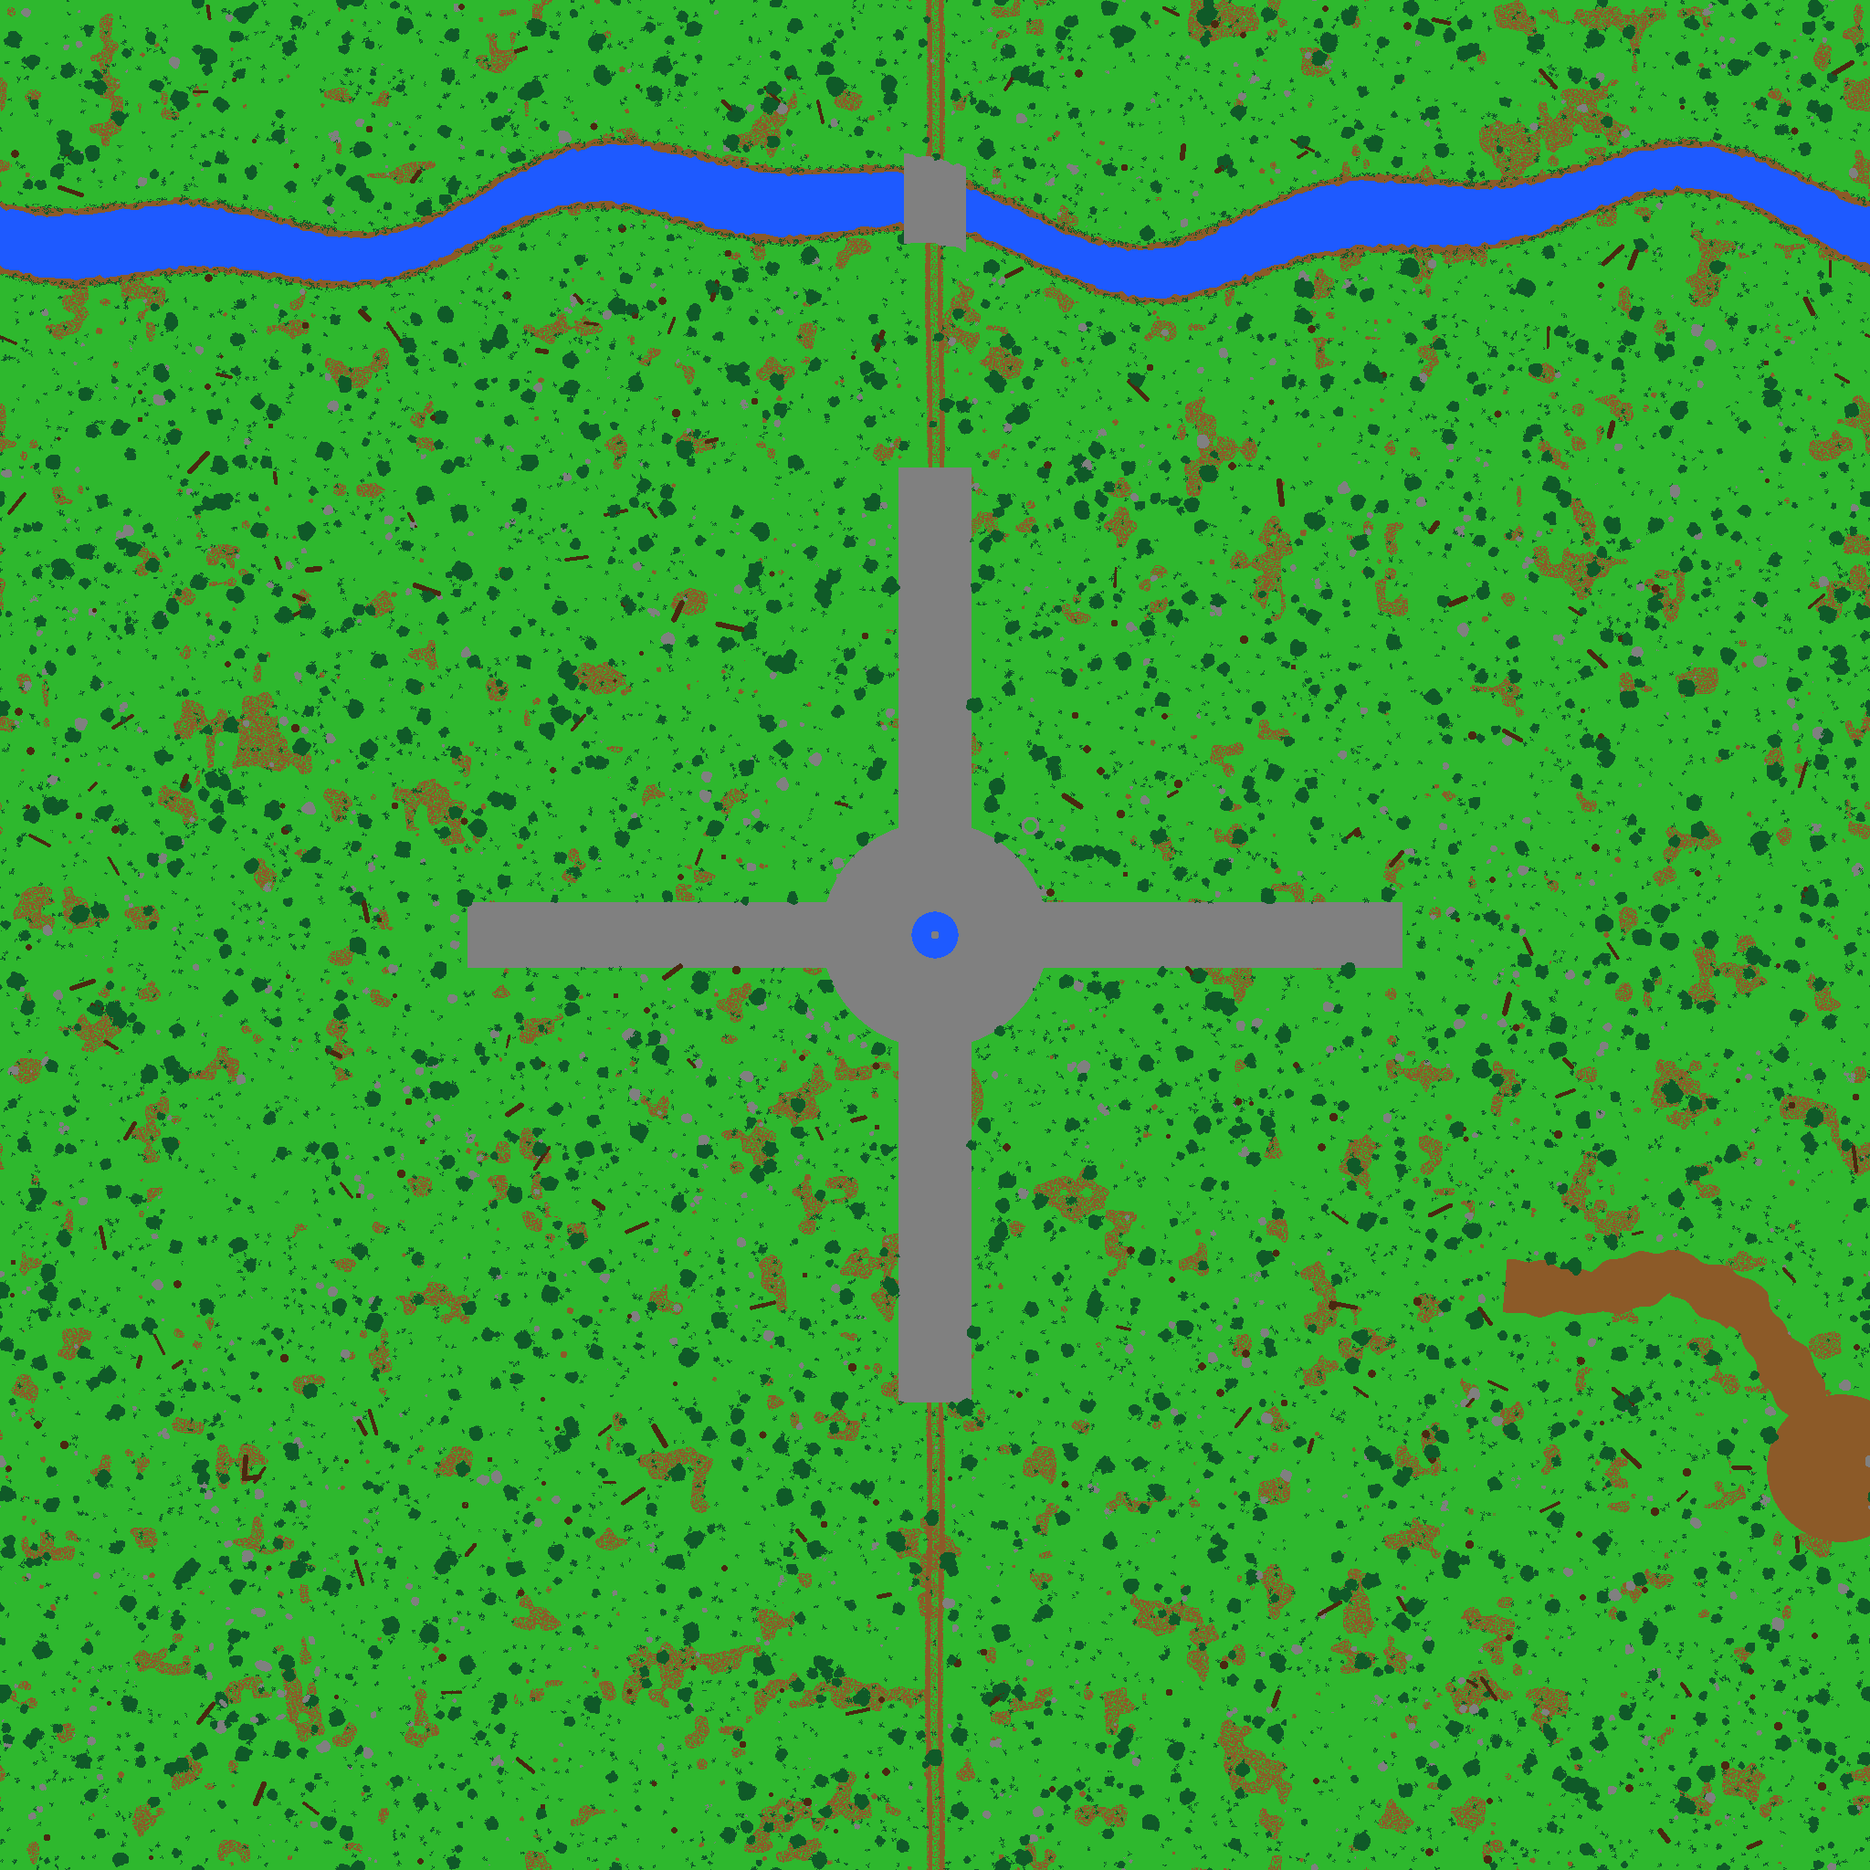
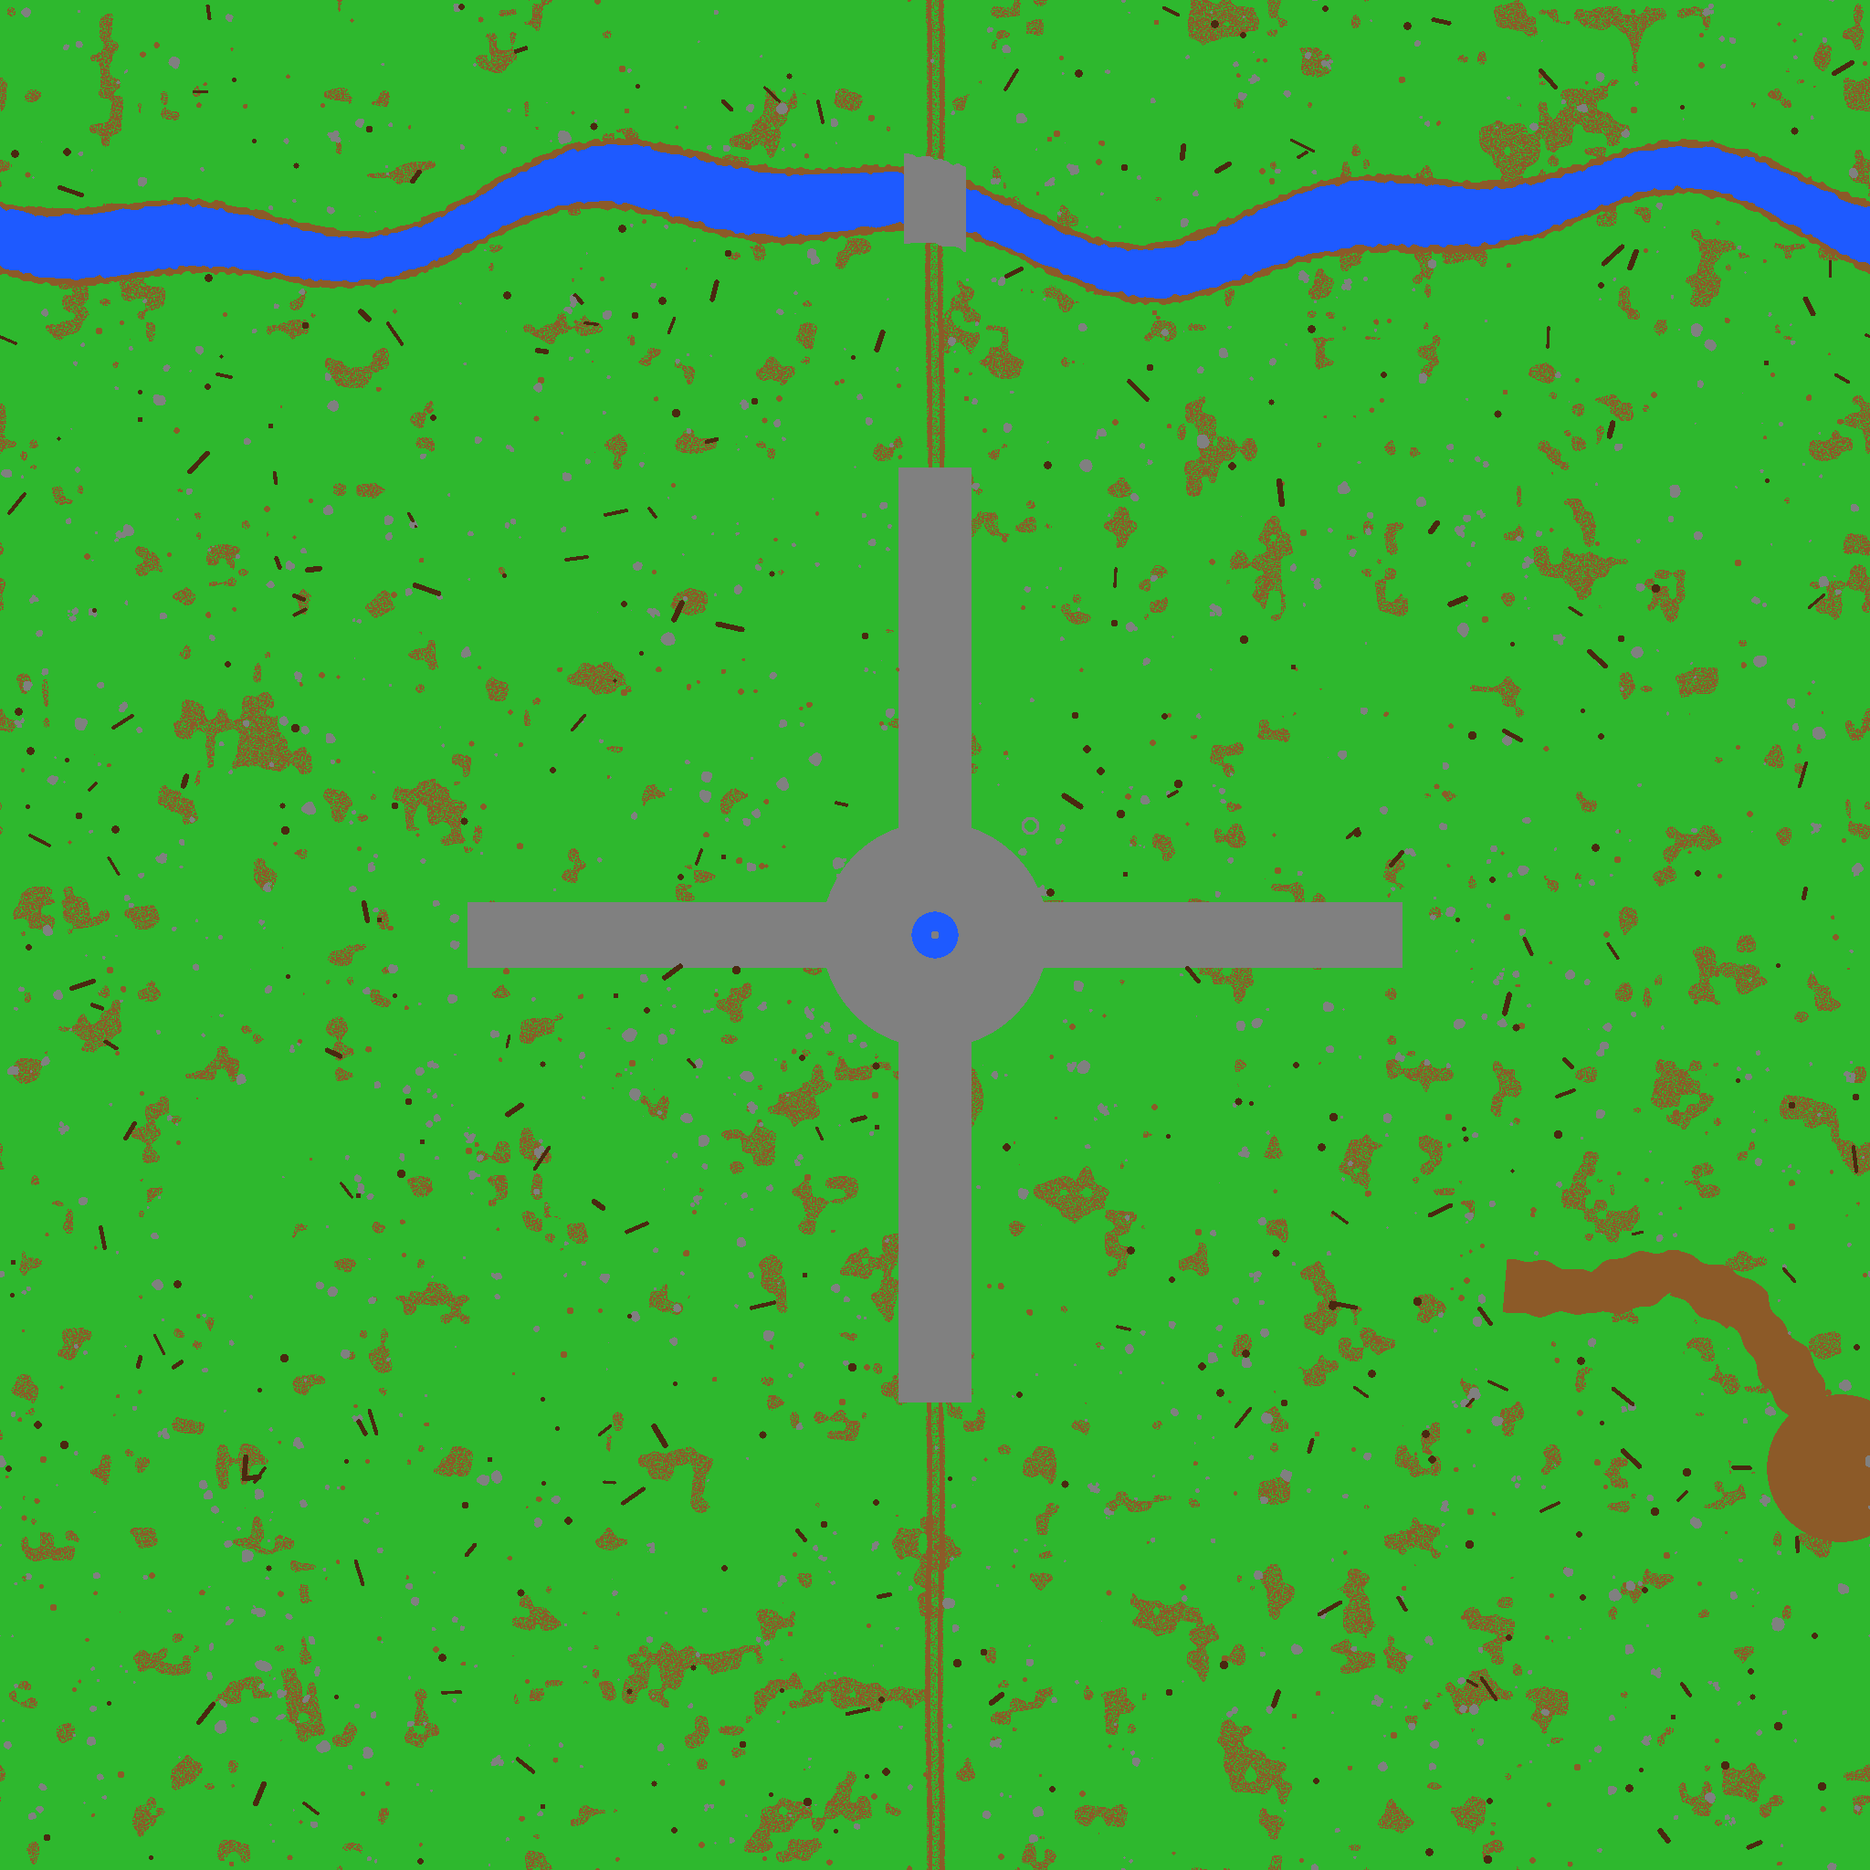
PS1 resolution, per-pixel texture height, no painted flora
- Render 240 lines (PS1 resolution), width follows the screen so it fills it
- Grass and cobblestone height maps traced per pixel in the terrain march (cobbles bulge
  out of the mortar), with finer steps near the camera
- Map no longer paints or raises small flora (flowers, shrubs, grass clumps, reeds, mushroom
  rings, ferns) or road paving joints; rocks, logs, curbs and walls stay. Random draws are
  kept in step so rocks and logs don't move. Terrain mask regenerated (no plant patches).
- PC: ERYNDOR_TURN test option

Claude-Session: https://claude.ai/code/session_012tW2o5ivFoZcMGPGUBwr9d

diff --git a/app/src/main/java/com/harlequinxd/eryndor/WorldTextures.java b/app/src/main/java/com/harlequinxd/eryndor/WorldTextures.java
@@ -72,6 +72,12 @@ final class WorldTextures {
         return fernCache;
     }
     private static float[] DH;                       // detail heights while painting
+    /**
+     * Small flora painted and raised on the map (tall grass clumps, shrubs, reeds, mushroom rings,
+     * ferns). Off: the ground's look comes from texture sets instead. Placement still draws the same
+     * random numbers either way, so rocks, logs and trees stay exactly where they were.
+     */
+    static final boolean FLORA = false;
 
     /** Raise the detail height at a texel (keeps the highest). */
     private static void raise(int i, float v) {
@@ -489,7 +495,7 @@ final class WorldTextures {
                 // detail height (m): grass is a fine fuzz of blades
                 // lumpy meadow: gentle hummocks plus a dense fuzz of grass blades
                 float hummock = smooth(0.35f, 0.9f, m2.at(u + 0.21f, v + 0.67f)) * 0.22f + (f1.at(u + 0.3f, v) - 0.5f) * 0.06f;
-                float dh = 0.03f + hummock + 0.11f * h * h + 0.05f * bl0(blade, u, v);
+                float dh = 0.03f + hummock + (FLORA ? 0.11f * h * h + 0.05f * bl0(blade, u, v) : 0f);
 
                 // ---- meadow: lush to sun-dried grass, strong per-texel blade variation
                 float t = smooth(0.30f, 0.75f, big);
@@ -505,7 +511,7 @@ final class WorldTextures {
                 if (clover > 0) {
                     float cl = 0.85f + 0.3f * fine;
                     r = lerp(r, 0.25f * cl, clover); g = lerp(g, 0.40f * cl, clover); b = lerp(b, 0.16f * cl, clover);
-                    if (h2 > 0.993f && clover > 0.3f) { r = 0.88f; g = 0.88f; b = 0.84f; }
+                    if (FLORA && h2 > 0.993f && clover > 0.3f) { r = 0.88f; g = 0.88f; b = 0.84f; }
                 }
                 // bare earth patches
                 float bare = smooth(0.70f, 0.78f, m1.at(u + 0.13f, v + 0.51f) * 0.7f + m2.at(u, v) * 0.3f);
@@ -519,7 +525,7 @@ final class WorldTextures {
                 }
                 // wildflowers in drifts
                 float fl = smooth(0.55f, 0.85f, m2.at(u + 0.7f, v + 0.3f)) * (1f - bare);
-                if (h2 < 0.028f * fl) {
+                if (FLORA && h2 < 0.028f * fl) {
                     float k = hash(x * 3, y * 5);
                     if (k < 0.35f) { r = 0.95f; g = 0.93f; b = 0.86f; }       // daisies
                     else if (k < 0.65f) { r = 0.95f; g = 0.80f; b = 0.20f; }  // buttercups
@@ -546,7 +552,8 @@ final class WorldTextures {
                 if (onN || onE || onP) {
                     float wear = smooth(0.6f, 0.0f, Math.min(Math.abs(sd - 1.6f), Math.abs(sd + 0f - 1.6f))) * (onN ? 1f : 0f);
                     float[] c = cobble(wx, wz, 0.36f, fine, h, wear * 0.6f);
-                    dh = vEdge < 0.36f * 0.13f ? 0.0f : 0.02f + 0.035f * smooth(0f, 0.12f, vEdge);
+                    // the stones' own relief comes from the cobblestone texture's height map
+                    dh = 0.02f;
                     boolean curb = (onN && !onP && !(sdz < halfE + 0.35f) && sd > halfN)
                             || (onE && !onP && !(sd < halfN + 0.35f) && sdz > halfE)
                             || (onP && plaza > 15.0f && !(sd < halfN + 0.35f) && !(sdz < halfE + 0.35f));
@@ -593,7 +600,7 @@ final class WorldTextures {
                     float bl2 = 0.74f + 0.22f * hash(fx * 31 + fz, 7) + 0.06f * (h - 0.5f) + 0.08f * (fine - 0.5f);
                     r = 0.58f * bl2; g = 0.55f * bl2; b = 0.50f * bl2;
                     if (fu < 0.10f || fv < 0.12f) { r *= 0.55f; g *= 0.55f; b *= 0.55f; }
-                    dh = (fu < 0.10f || fv < 0.12f) ? 0.0f : 0.025f;
+                    dh = 0.02f;                                            // relief from the cobblestone texture
                     if (sd > 3.5f) {                                       // parapet walls
                         dh = 0.95f + 0.05f * hash(fz, 3);
                         float pl = 0.95f - 0.35f * (dx > 0 ? 1f : 0f) * smooth(3.5f, 4.2f, sd) + 0.1f * (h - 0.5f);
@@ -612,7 +619,7 @@ final class WorldTextures {
                     dh = lerp(dh, hash(x >> 1, y >> 1) < 0.12f ? 0.05f : 0.01f, bank);
                     if (bank > 0.5f) mat = M_EARTH;
                     // reeds along the outer bank
-                    if (rd > rhw + 0.3f && rd < rhw + 1.3f && m2.at(u * 4f, v * 4f) > 0.55f && h > 0.45f) {
+                    if (FLORA && rd > rhw + 0.3f && rd < rhw + 1.3f && m2.at(u * 4f, v * 4f) > 0.55f && h > 0.45f) {
                         float rl = 0.7f + 0.5f * h2;
                         r = 0.30f * rl; g = 0.40f * rl; b = 0.18f * rl;
                         dh = 0.35f + 0.45f * h2;
@@ -683,12 +690,13 @@ final class WorldTextures {
         }
 
         // ---- scatter
-        Loading.set("Growing grass and shrubs", 0.62f);
+        Loading.set("Shaping the meadows", 0.62f);
         curMat = M_PLANT;
         for (int k = 0; k < 9000; k++) {                         // tall grass clumps
             int cx = rnd.nextInt(S), cy = rnd.nextInt(S);
             if (busy[cy * S + cx] != 0) continue;
-            tuft(R, G, B, cx, cy, rnd);
+            if (FLORA) tuft(R, G, B, cx, cy, rnd);
+            else skipTuft(rnd);
         }
         Loading.set("Scattering boulders", 0.66f);
         curMat = M_STONE;
@@ -697,12 +705,14 @@ final class WorldTextures {
             if (busy[cy * S + cx] != 0) continue;
             rock(R, G, B, cx, cy, 1.3f + rnd.nextFloat() * rnd.nextFloat() * 7f, rnd, f1);
         }
-        Loading.set("Growing grass and shrubs", 0.69f);
+        Loading.set("Shaping the meadows", 0.69f);
         curMat = M_PLANT;
         for (int k = 0; k < 2100; k++) {                         // shrubs, gorse and bramble
             int cx = rnd.nextInt(S), cy = rnd.nextInt(S);
             if (busy[cy * S + cx] != 0) continue;
-            bush(R, G, B, cx, cy, 3.5f + rnd.nextFloat() * 7f, rnd.nextFloat(), rnd.nextInt(1 << 20), f2);
+            float rad = 3.5f + rnd.nextFloat() * 7f, kind = rnd.nextFloat();
+            int seed = rnd.nextInt(1 << 20);
+            if (FLORA) bush(R, G, B, cx, cy, rad, kind, seed, f2);
         }
         // standing stones on the rise west of the north road
         curMat = M_STONE;
@@ -736,9 +746,15 @@ final class WorldTextures {
             molehill(R, G, B, cx, cy, 2f + rnd.nextFloat() * 2f, rnd);
         }
         curMat = M_PLANT;
-        fairyRing(R, G, B, 196f, 70f, 2.4f, rnd);
-        fairyRing(R, G, B, 40f, 110f, 1.8f, rnd);
-        fairyRing(R, G, B, 210f, 222f, 2.9f, rnd);
+        if (FLORA) {
+            fairyRing(R, G, B, 196f, 70f, 2.4f, rnd);
+            fairyRing(R, G, B, 40f, 110f, 1.8f, rnd);
+            fairyRing(R, G, B, 210f, 222f, 2.9f, rnd);
+        } else {
+            skipFairyRing(2.4f, rnd);
+            skipFairyRing(1.8f, rnd);
+            skipFairyRing(2.9f, rnd);
+        }
         curMat = M_STONE;
         well(R, G, B, (int) (141 * PPM), (int) (113 * PPM), 1.25f * PPM, 0.80f * PPM, f1);
         Loading.set("Planting ferns", 0.79f);
@@ -755,7 +771,7 @@ final class WorldTextures {
                     for (int j = -6; j <= 6 && clear; j += 3)
                         if (busy[Math.floorMod(pz + k, S) * S + Math.floorMod(px + j, S)] != 0
                                 || DH[Math.floorMod(pz + k, S) * S + Math.floorMod(px + j, S)] > 0.5f) clear = false;
-                boolean present = clear && rnd.nextFloat() < 0.55f;
+                boolean present = clear && rnd.nextFloat() < 0.55f && FLORA;
                 int o = (cz * FERN_GRID + cx) * 4;
                 fernCache[o] = (byte) Math.round(ox * 255);
                 fernCache[o + 1] = (byte) Math.round(oz * 255);
@@ -834,6 +850,28 @@ final class WorldTextures {
         else if (Math.abs(across) < 0.5f) cov = h > 0.35f ? 0.15f : 0.8f;     // grass crown
         else cov = smooth(1.6f, 0.9f, Math.abs(across)) * (h > 0.3f ? 1f : 0.4f);
         return new float[]{r, g, b, cov, th};
+    }
+
+    /** Draw the same random numbers as tuft() without painting anything. */
+    private static void skipTuft(Random rnd) {
+        int blades = 5 + rnd.nextInt(8);
+        rnd.nextFloat();
+        for (int k = 0; k < blades; k++) {
+            rnd.nextDouble();
+            rnd.nextInt(3);
+            rnd.nextFloat();
+        }
+    }
+
+    /** Draw the same random numbers as fairyRing() without painting anything. */
+    private static void skipFairyRing(float radius, Random rnd) {
+        int n = (int) (radius * 14);
+        for (int k = 0; k < n; k++) {
+            rnd.nextFloat();
+            rnd.nextFloat();
+            rnd.nextFloat();
+            rnd.nextFloat();
+        }
     }
 
     private static void tuft(float[] R, float[] G, float[] B, int cx, int cy, Random rnd) {

diff --git a/desktop/src/main/java/com/harlequinxd/eryndor/DesktopMain.java b/desktop/src/main/java/com/harlequinxd/eryndor/DesktopMain.java
@@ -178,7 +178,16 @@ public final class DesktopMain {
             pollKeys();
 
             renderer.onDrawFrame(null);
-            if (sky.worldReady && readyAt == 0) readyAt = System.currentTimeMillis();
+            if (sky.worldReady && readyAt == 0) {
+                readyAt = System.currentTimeMillis();
+                // ERYNDOR_TURN=dx,dy turns the view once the world is ready (for testing), in degrees
+                String turn = System.getenv("ERYNDOR_TURN");
+                if (turn != null) {
+                    String[] p = turn.split(",");
+                    input.addLook((float) Math.toRadians(Float.parseFloat(p[0])) / LOOK_SENS,
+                            (float) Math.toRadians(Float.parseFloat(p[1])) / LOOK_SENS);
+                }
+            }
             overlay.draw(fbW, fbH, state());
             if (shotDir != null && System.currentTimeMillis() >= nextShot) {
                 screenshot(new File(shotDir, String.format("shot_%03d.png", shotIndex++)));

diff --git a/app/src/main/java/com/harlequinxd/eryndor/GameRenderer.java b/app/src/main/java/com/harlequinxd/eryndor/GameRenderer.java
@@ -26,14 +26,14 @@ import javax.microedition.khronos.opengles.GL10;
 final class GameRenderer implements GLSurfaceView.Renderer {
 
     /** GBA vertical resolution; width follows the screen's aspect so it fills the whole display. */
-    private static final int LOW_RES_LINES = 160;
+    private static final int LOW_RES_LINES = 240;           // PS1 resolution: 240 lines, width follows the screen
     private static final float FOV_Y = (float) Math.toRadians(68);
     private static final float EYE_HEIGHT = 1.68f;
     private static final float MAX_SLOPE = 1.1f;       // rise per metre the player can climb
     private static final float MIN_HEADROOM = 1.95f;
     private static final float WALK_SPEED = 4.2f;      // m/s at full stick
     private static final float LOOK_SENS = 0.0065f;    // radians per dp
-    private static final int GROUND_CACHE_VERSION = 11;
+    private static final int GROUND_CACHE_VERSION = 13;
 
     private final Input input;
     private final SkyState sky;

diff --git a/README.md b/README.md
@@ -56,7 +56,10 @@ Hollowspire.
   so stones don't ghost) and packs normal + height. Grass shows the photo's own colour, lit by its normal
   map, point sampled, with tree shadows on top; two placements, one turned and larger, are mixed
   per pixel by a dithered noise so the tile doesn't repeat visibly. Small detail comes only from
-  the textures (no grass bumps in the terrain).
+  the textures: each set's height map is traced per pixel (cobbles bulge 6 cm out of the mortar,
+  grass clumps 3.5 cm), and the map itself no longer paints or raises small flora (flowers,
+  shrubs, tall grass clumps, reeds, mushroom rings, ferns) or paving joints; rocks, logs,
+  stumps, cairns, curbs and walls remain (`WorldTextures.FLORA` turns the flora back on).
 - **Sword, per pixel**: a longsword in the right hand: a diamond-section steel blade with a
   fuller and honed edges that mirror the sky, a blackened-iron crossguard with brass bands, a
   spiral leather grip and a pommel. Each pixel traces its distance-field shapes. The right hand's
@@ -88,7 +91,7 @@ Hollowspire.
 - **Day/night**: full 24 h in 8 minutes (x20 with the Time button).
 - **Weather**: clear, cloudy, overcast, rain (wet ground), thunderstorm (lightning) and mist.
   Changes on its own; the Weather button cycles it.
-- **Look**: GBA resolution (160 lines, width follows the screen so it fills the whole display),
+- **Look**: PS1 resolution (160 lines, width follows the screen so it fills the whole display),
   nearest-neighbour upscale, 15-bit ordered dither.
 - **Controls**: touch pad on the left 45% of the screen to walk, swipe anywhere else to look.
 
